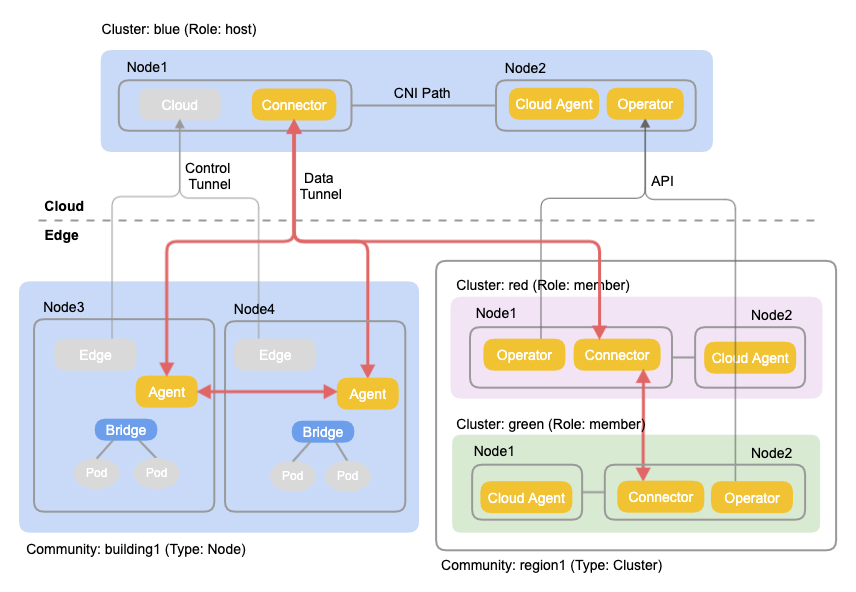
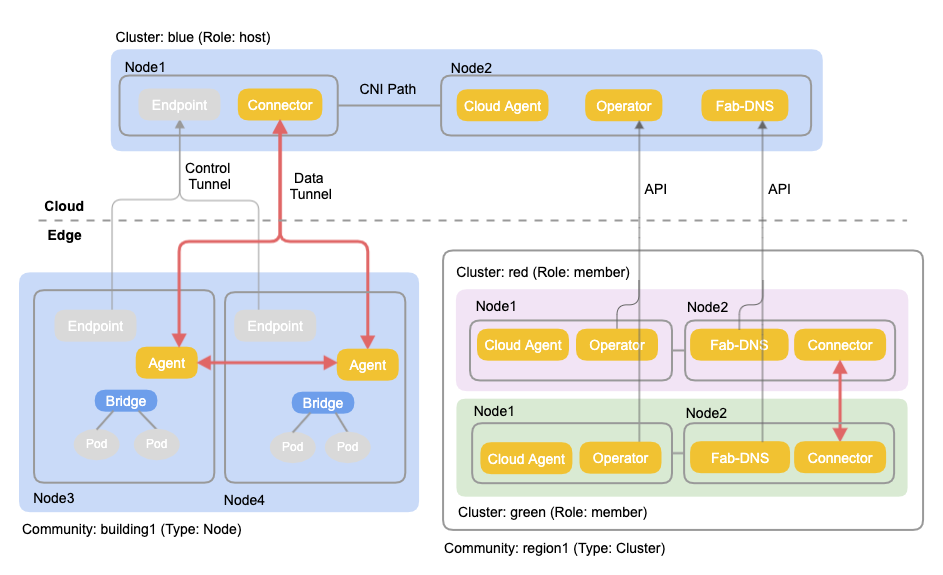
docs: udpate readme

diff --git a/README_zh.md b/README_zh.md
@@ -6,7 +6,7 @@
 
 <img src="https://user-images.githubusercontent.com/88021699/132610524-c5adcbd3-d49a-4de4-94de-dab46d4a2ed5.jpg" width="40%">  
 
-FabEdge是一个基于kubernetes构建的，专注于边缘计算场景的容器网络方案，支持KubeEdge/SuperEdge/OpenYurt等主流边缘计算框架。 FabEdge解决了边缘计算场景下容器网络配置管理复杂，网络割裂通信困难，缺少拓扑感知能力，无法提供就近访问等问题，使能云边、边边之间的业务协同。FabEdge支持弱网环境，如4/5G，WiFi等，适用于物联网，车联网、智慧城市等场景。
+FabEdge是一个基于kubernetes构建的，专注于边缘计算的容器网络方案，支持KubeEdge/SuperEdge/OpenYurt等主流边缘计算框架。 FabEdge旨在解决边缘计算场景下网络管理复杂，跨集群通信困难，缺少能自动感知网络拓扑的服务发现等问题，使能云边、边边业务协同。FabEdge支持4/5G，WiFi等弱网环境，适用于物联网，车联网、智慧城市等场景。
 
 FabEdge不仅支持边缘节点（通过KubeEdge等边缘计算框架加入集群的远程节点），还支持边缘集群（独立的K8S集群）。
 
@@ -32,27 +32,18 @@ FabEdge是托管在CNCF下的沙箱项目。
 * KubeEdge等边缘计算框架建立了控制面，把边缘节点加入云端K8S集群，使得可以在边缘节点上下发Pod等资源；FabEdge在此基础上建立了一个三层的数据转发面，使得Pod和Pod之间可以直接通讯。
 * 云端可以是任何K8S集群，目前支持的CNI包括Calico， Flannel。
 * FabEdge使用安全隧道技术，目前支持IPSec。
-* FabEdge包括的组件：Operators, Connector，Agent和Cloud-Agent
+* FabEdge包括的组件：Operators, Connector，Agent和Cloud-Agent。
 * Operator运行在云端任意的节点，通过监听节点，服务等K8S资源，为每个Agent维护一个ConfigMap，包括了本Agent需要的路由信息，比如子网，端点，负载均衡规则等，同时为每个Agent维护一个Secret，包括CA证书，节点证书等。Operator也负责Agent自身的管理，包括创建，更新，删除等。
 * Connector运行在云端选定的节点，负责管理从边缘节点发起的隧道，在边缘节点和云端集群之间转发流量。从Connector节点到云端其它非Connector节点的流量转发仍然依靠云端CNI。
 * Cloud-Agent运行在集群中所有非边缘，非Connector的节点，它负责管理本节点到远端的路由。  
 * Agent运行在每个边缘节点上， 它使用自己的ConfigMap和Secret的信息，发起到云端Connector和其它边缘节点的隧道，负责本节点的路由，负责均衡，iptables规则的管理。
+* Fab-DNS运行在所有FabEdge的集群里，它通过截获DNS请求，提供拓扑感知的跨集群服务发现能力。
 
-## 兼容矩阵
+## FabEdge和传统CNI的区别 
 
-|             | KubeEdge 1.8.0 | SuperEdge  0.5.0 | OpenYurt 0.5.0 |
-| ----------- | -------------- | ---------------- | -------------- |
-| FabEdge 0.3 | ✓              | ✓                | ✓              |
+FabEdge和现有的CNI，比如Calico，Flannel，互为补充，解决不同的问题。就像前面架构图所示，Calico等传统的插件运行在云端K8S集群里，负责云内节点之间的流量转发，FabEdge作为它的一个补充，把网络的能力延伸到了边缘节点和边缘集群，使能了云边，边边通讯。
 
-> 说明：
->
-> 这里只包含了测试过的组合，并不是说其它的组合就不兼容。FabEdge并不严格依赖任何边缘计算框架，所以其它的主流版本大概率是可行的。
-
-## FabEdge和其它CNI的区别 
-
-FabEdge和现有的CNI，比如Calico，Flannel，并不冲突。就像在前面架构图所示，Calico等传统的插件运行在云端K8S集群里，负责云内节点之间的流量转发，FabEdge作为它的一个补充，把网络的能力延伸到了边缘节点和边缘集群，使能了云边，边边通讯。
-
-## 使用手册
+## 用户手册
 
 请参考 [文档](docs/).
 
@@ -71,5 +62,5 @@ FabEdge和现有的CNI，比如Calico，Flannel，并不冲突。就像在前面
 
 <img src="docs/images/wechat-group-qr-code.jpg" alt="wechat-group" style="width: 20%"/>
 
-## 许可
+## 软件许可
 FabEdge遵循Apache 2.0 许可。

diff --git a/docs/design/跨集群服务访问介绍.md b/docs/design/跨集群服务访问介绍.md
@@ -1,0 +1,39 @@
+
+# FabEdge跨集群服务访问
+
+ FabEdge在0.4.0时已经支持多边缘集群通信，但集群间的相互访问只能通过IP来访问，即便访问目标是一个服务也会如此，这与日常中使用Kubernetes的习惯极不相符。事实上，自多集群通信的需求存在以来，跨集群的服务发现和访问的需求就一直存在，开源社区也一直在努力解决这个问题：
+
+* [Multi-cluster Service APIs](https://github.com/kubernetes-sigs/mcs-api)
+* [Lighthouse](https://submariner.io/getting-started/architecture/service-discovery/)
+* [Cilium Load-balancing & Service Discovery](https://docs.cilium.io/en/stable/gettingstarted/clustermesh/services/)
+
+
+
+既然已经存在这些解决方案，为什么FabEdge要提出自己的解决方案呢？有如下原因：
+
+* mcs-api只是一套API，需要其他实现者解决各个集群间服务信息的导出导入。
+* Lighthouse依赖于submariner，而submariner并不是面向边缘场景的。
+*  Cilium是一套整体解决方案，不能跟其他CNI共存，此外它也不是面向边缘场景。
+
+
+
+为FabEdge提供跨集群服务访问的组件叫[FabDNS](https://github.com/FabEdge/fab-dns)，它尝试达成以下目标：
+
+* 它允许一个集群访问其他集群提供的服务，服务类型仅限于ClusterIP，Headless两种。
+
+* 一个服务可以部署于一个集群内部，也可以分散在多个集群里。
+
+* 提供一定的具备拓扑感知的DNS解析，访问者可以就近访问最近的服务节点。    
+
+    
+  
+
+FabDNS有两个组件: service-hub与fab-dns。还提供了一个CRD: GlobalService。一个集群若想将一个服务提供给其他集群，首先要将该服务标注为全局服务。 service-hub负责各个集群间全局服务的导出与导入，fab-dns负责在集群内部提供全局服务的地址解析。每个集群部署时FabDNS时要标注拓扑信息，即region和zone信息，FabDNS的拓扑感知就是基于这些拓扑信息来进行的。
+
+
+
+![fab-dns-show3](fab-dns-show3.png)
+
+
+
+以上图为例，共有三个集群，北京集群是主集群，上海集群和苏州集群的service-hub都要通过北京集群的service-hub交换全局服务信息。北京和上海集群同时暴露了一个nginx服务和一个mysql服务，假设这些服务都是在default命名空间下。如果上海或北京的一个pod去访问nginx.default.global，那么响应的pod只会是各自集群的pod，因为zone是匹配的。如果苏州集群的pod去访问nginx.default.global，那么它会被上海集群的nginx背后的pod响应，为什么呢？因为苏州和上海的region都是south
